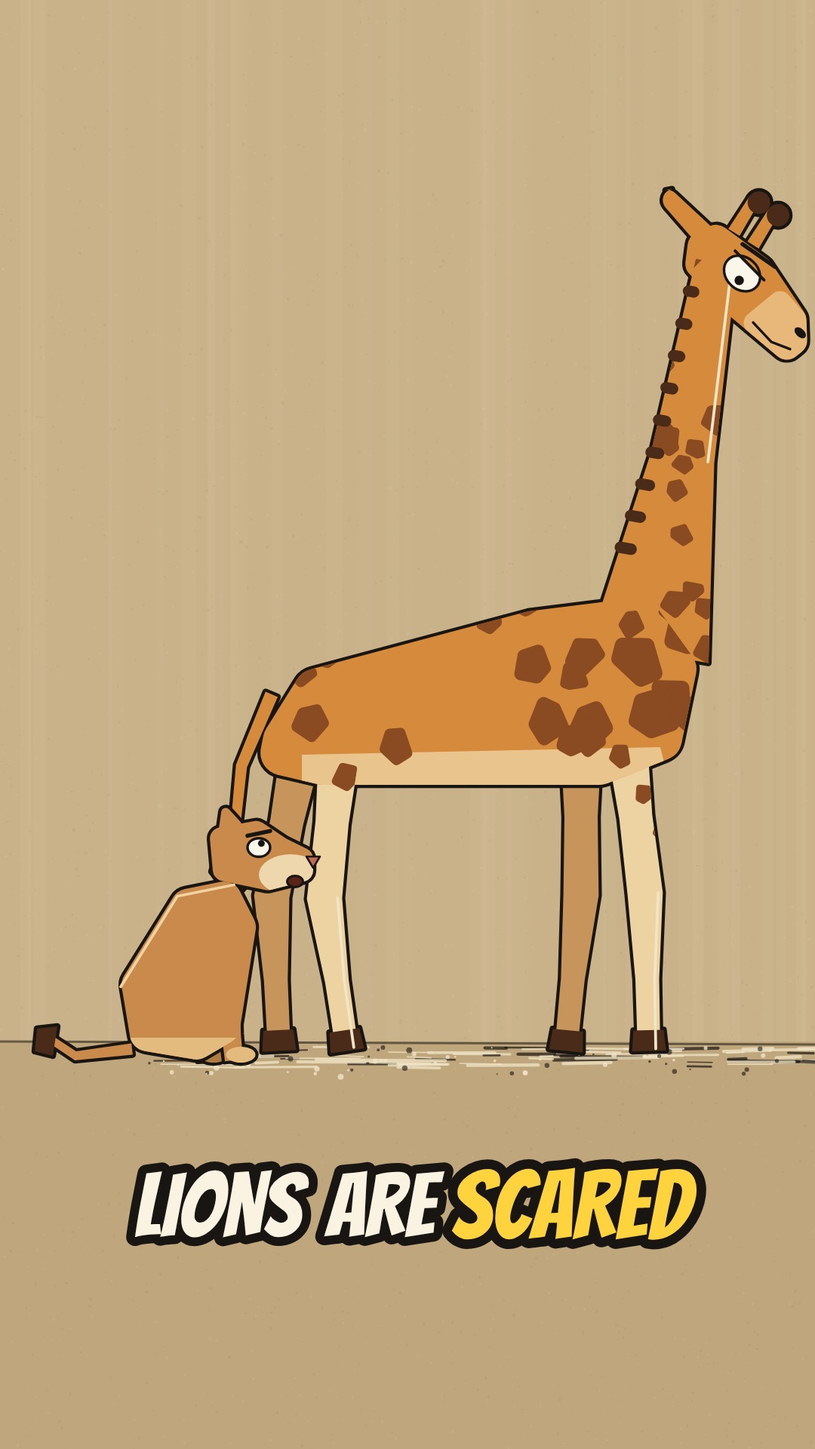
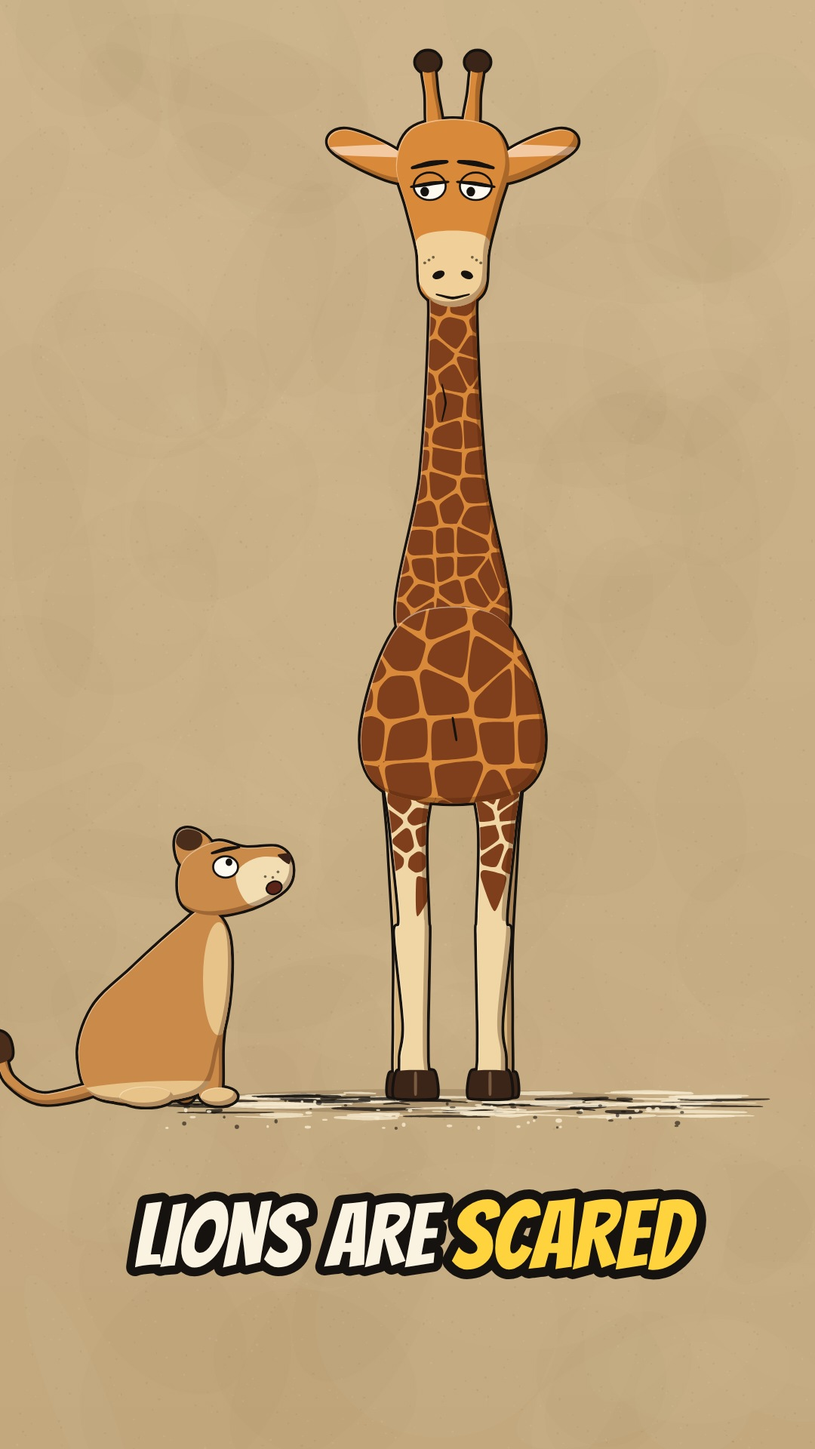
Reference-style v2: smooth spline anatomy, cel shadow + rim light, Voronoi coat, front-view giraffe; 5 new stills
Claude-Session: https://claude.ai/code/session_01W7fcZEsnoE2Lhh733xsyCF

Changed region(s): [[0.0, 0.0312, 1.0, 0.9062]]

diff --git a/roman-short/src/videos/ink/stylized2.ts b/roman-short/src/videos/ink/stylized2.ts
@@ -1,0 +1,296 @@
+// Style test v2 (after the user's Doberman reference): smooth, elongated cartoon anatomy with S-curves, one bold
+// brush outline per silhouette, flat earthy colours with a cel shadow crescent on the far side and a cream rim light
+// on the near side, tapered interior detail lines, heavy-lidded deadpan eyes, toe lines on paws/hooves, plain
+// mottled kraft paper and a dry-brush floor shadow. Five vertical stills (t = 0..4).
+export {};
+type P = [number, number];
+const LINE = "#16120f", CREAM = "#f6e8c8";
+const G_COAT = "#d9893a", G_SPOT = "#7f3f1c", G_LEG = "#efd6a4", G_HOOF = "#3b2418", G_MUZ = "#f0cf98";
+const L_COAT = "#c98a4a", L_BELLY = "#e8c389", L_MUZ = "#f2dcb2", L_DARK = "#4a2d1a";
+let seed = 1; const rnd = () => { seed = (seed * 16807) % 2147483647; return (seed - 1) / 2147483646; };
+const lerp = (a: P, b: P, t: number): P => [a[0] + (b[0] - a[0]) * t, a[1] + (b[1] - a[1]) * t];
+
+/** closed Catmull-Rom spline through the points (smooth organic outline) */
+const spline = (pts: P[], closed = true, k = 0.5) => {
+  const p = new Path2D(), n = pts.length, at = (i: number) => (closed ? pts[(i + n) % n] : pts[Math.max(0, Math.min(n - 1, i))]);
+  p.moveTo(pts[0][0], pts[0][1]);
+  for (let i = 0; i < (closed ? n : n - 1); i++) {
+    const p0 = at(i - 1), p1 = at(i), p2 = at(i + 1), p3 = at(i + 2);
+    p.bezierCurveTo(p1[0] + ((p2[0] - p0[0]) * k) / 3, p1[1] + ((p2[1] - p0[1]) * k) / 3, p2[0] - ((p3[0] - p1[0]) * k) / 3, p2[1] - ((p3[1] - p1[1]) * k) / 3, p2[0], p2[1]);
+  }
+  if (closed) p.closePath(); return p;
+};
+/** outline of a centre line with per-point widths (limbs, necks, tails), as a closed point list */
+const ribbon = (pts: P[], ws: number[]): P[] => {
+  const L: P[] = [], R: P[] = [];
+  pts.forEach((p, i) => { const a = pts[Math.max(0, i - 1)], b = pts[Math.min(pts.length - 1, i + 1)], dx = b[0] - a[0], dy = b[1] - a[1], l = Math.hypot(dx, dy) || 1, nx = -dy / l, ny = dx / l, w = ws[i] / 2;
+    L.push([p[0] + nx * w, p[1] + ny * w]); R.push([p[0] - nx * w, p[1] - ny * w]); });
+  return [...L, ...R.reverse()];
+};
+const ell = (x: number, y: number, rx: number, ry: number, r = 0) => { const p = new Path2D(); p.ellipse(x, y, rx, ry, r, 0, Math.PI * 2); return p; };
+type Part = { path: Path2D; fill: string; shade?: boolean; deco?: () => void };
+const LIGHT: P = [-0.62, -0.78];
+/** cel shadow crescent on the side away from the light + a thin cream rim on the lit side */
+const shade = (g: CanvasRenderingContext2D, path: Path2D, d: number, r: number, dark = "rgba(70,30,10,0.32)") => {
+  const big = 1e5;
+  g.save(); g.clip(path);
+  const a = new Path2D(); a.rect(-big, -big, 2 * big, 2 * big); a.addPath(path, new DOMMatrix().translate(LIGHT[0] * d, LIGHT[1] * d)); g.save(); g.clip(a, "evenodd"); g.fillStyle = dark; g.fillRect(-big, -big, 2 * big, 2 * big); g.restore();
+  const b = new Path2D(); b.rect(-big, -big, 2 * big, 2 * big); b.addPath(path, new DOMMatrix().translate(-LIGHT[0] * r, -LIGHT[1] * r)); g.clip(b, "evenodd"); g.fillStyle = "rgba(255,244,220,0.5)"; g.fillRect(-big, -big, 2 * big, 2 * big);
+  g.restore();
+};
+/** stroke all parts thick then fill on top (one merged outline), then shade each part */
+const group = (g: CanvasRenderingContext2D, parts: Part[], lw: number, d: number, after?: () => void) => {
+  g.lineJoin = "round"; g.lineCap = "round"; g.strokeStyle = LINE; g.lineWidth = lw * 2;
+  for (const p of parts) g.stroke(p.path);
+  // painter's order: each part is filled, decorated and shaded before the next covers it
+  for (const p of parts) { g.fillStyle = p.fill; g.fill(p.path); p.deco?.(); if (p.shade !== false) shade(g, p.path, d, d * 0.2); }
+  after?.();
+};
+/** brush stroke that tapers at both ends */
+const taper = (g: CanvasRenderingContext2D, pts: P[], w: number, col = LINE) => {
+  const n = pts.length, ws = pts.map((_, i) => w * Math.sin((Math.PI * (i + 0.6)) / (n + 0.2)));
+  g.fillStyle = col; g.fill(spline(ribbon(pts, ws), true, 0.3));
+};
+/** reticulated coat: rounded cells from a jittered grid (Voronoi via half-plane clipping), clipped to a part */
+const coat = (g: CanvasRenderingContext2D, clip: Path2D, x0: number, y0: number, x1: number, y1: number, cell: number, gap: number, col = G_SPOT, sd = 3) => {
+  seed = sd; const pts: P[] = [];
+  for (let y = y0 - cell; y < y1 + cell; y += cell) for (let x = x0 - cell; x < x1 + cell; x += cell) pts.push([x + rnd() * cell * 0.8, y + rnd() * cell * 0.8]);
+  g.save(); g.clip(clip); g.fillStyle = col;
+  for (const p of pts) {
+    if (p[0] < x0 - cell * 0.5 || p[0] > x1 + cell * 0.5 || p[1] < y0 - cell * 0.5 || p[1] > y1 + cell * 0.5) continue;
+    let poly: P[] = [[p[0] - cell * 2, p[1] - cell * 2], [p[0] + cell * 2, p[1] - cell * 2], [p[0] + cell * 2, p[1] + cell * 2], [p[0] - cell * 2, p[1] + cell * 2]];
+    for (const q of pts) {
+      if (q === p || Math.abs(q[0] - p[0]) > cell * 2.5 || Math.abs(q[1] - p[1]) > cell * 2.5) continue;
+      const m = lerp(p, q, 0.5), nx = q[0] - p[0], ny = q[1] - p[1], out: P[] = [];
+      const side = (v: P) => (v[0] - m[0]) * nx + (v[1] - m[1]) * ny;
+      for (let i = 0; i < poly.length; i++) { const a = poly[i], b = poly[(i + 1) % poly.length], sa = side(a), sb = side(b);
+        if (sa <= 0) out.push(a); if (sa * sb < 0) out.push(lerp(a, b, sa / (sa - sb))); }
+      poly = out;
+    }
+    const cx = poly.reduce((s, v) => s + v[0], 0) / poly.length, cy = poly.reduce((s, v) => s + v[1], 0) / poly.length;
+    const shr = poly.map((v) => { const dx = v[0] - cx, dy = v[1] - cy, l = Math.hypot(dx, dy) || 1; return [v[0] - (dx / l) * gap, v[1] - (dy / l) * gap] as P; });
+    g.fill(spline(shr, true, 0.35));
+  }
+  g.restore();
+};
+
+type Face = { lid?: number; brow?: number; look?: P; worried?: boolean };
+/** deadpan cartoon eye with a heavy upper lid; brow tilt + for a frown, - for worry */
+const eye = (g: CanvasRenderingContext2D, c: P, r: number, f: Face, skin: string, lw: number, mirror = 1) => {
+  g.save(); g.translate(c[0], c[1]); g.scale(mirror, 1);
+  const e = ell(0, 0, r, r * 0.86); g.fillStyle = "#fffaf0"; g.fill(e);
+  const lk = f.look ?? [0, 0]; g.fillStyle = LINE; g.beginPath(); g.ellipse(lk[0] * r * 0.45 * mirror, lk[1] * r * 0.42, r * 0.27, r * 0.3, 0, 0, Math.PI * 2); g.fill();
+  const lid = f.lid ?? 0.5, ly = -r + 2 * r * lid * 0.8, tilt = (f.brow ?? 0.3) * r * 0.25;
+  if (lid > 0) { g.save(); g.clip(e); g.fillStyle = skin; g.beginPath(); g.moveTo(-r * 1.3, -r * 1.3); g.lineTo(r * 1.3, -r * 1.3); g.lineTo(r * 1.3, ly + tilt); g.lineTo(-r * 1.3, ly - tilt); g.fill(); g.restore();
+    taper(g, [[-r * 1.15, ly - tilt * 1.1], [0, ly - r * 0.04], [r * 1.15, ly + tilt * 1.1]], r * 0.26); }
+  g.strokeStyle = LINE; g.lineWidth = lw * 0.75; g.stroke(e);
+  const b = f.brow ?? 0.3; taper(g, [[-r * 1.1, -r * 1.35 - b * r * 0.35], [0, -r * 1.42], [r * 1.1, -r * 1.35 + b * r * 0.35]], r * 0.34);
+  g.restore();
+};
+
+// ---------------- giraffe, front view (hook) ----------------
+const giraffeFront = (g: CanvasRenderingContext2D, cx: number, base: number, s: number, f: Face) => {
+  g.save(); g.translate(cx, base); g.scale(s, s); const lw = 3.6 / s, d = 9 / s;
+  const X = (x: number, y: number): P => [x, y];
+  // hind legs (behind, darker)
+  const hind = [-1, 1].map((k) => spline(ribbon([X(k * 0.13, -0.98), X(k * 0.14, -0.7), X(k * 0.13, -0.42), X(k * 0.135, -0.2), X(k * 0.13, -0.02)], [0.12, 0.08, 0.07, 0.06, 0.06]), true));
+  const hhoof = [-1, 1].map((k) => spline([X(k * 0.13 - 0.045, -0.06), X(k * 0.13 + 0.045, -0.06), X(k * 0.13 + 0.05, 0.005), X(k * 0.13 - 0.05, 0.005)], true, 0.2));
+  group(g, [...hind.map((p) => ({ path: p, fill: "#d8b47d" })), ...hhoof.map((p) => ({ path: p, fill: G_HOOF, shade: false }))], lw, d);
+  // chest + front legs + neck + head as one silhouette
+  const chest = spline([X(-0.26, -1.0), X(-0.2, -1.24), X(-0.1, -1.36), X(0.1, -1.36), X(0.2, -1.24), X(0.26, -1.0), X(0.2, -0.86), X(0.0, -0.82), X(-0.2, -0.86)]);
+  const legs = [-1, 1].map((k) => spline(ribbon([X(k * 0.12, -1.0), X(k * 0.125, -0.75), X(k * 0.11, -0.5), X(k * 0.115, -0.45), X(k * 0.105, -0.2), X(k * 0.11, -0.1), X(k * 0.105, -0.02)], [0.15, 0.1, 0.08, 0.095, 0.065, 0.075, 0.065]), true));
+  const hoof = [-1, 1].map((k) => spline([X(k * 0.105 - 0.05, -0.065), X(k * 0.105 + 0.05, -0.065), X(k * 0.105 + 0.058, 0.008), X(k * 0.105 - 0.058, 0.008)], true, 0.2));
+  const neck = spline([X(-0.15, -1.3), X(-0.09, -1.75), X(-0.065, -2.2), X(-0.075, -2.45), X(0.075, -2.45), X(0.065, -2.2), X(0.09, -1.75), X(0.15, -1.3)]);
+  const head = spline([X(-0.16, -2.62), X(-0.12, -2.72), X(0.0, -2.75), X(0.12, -2.72), X(0.16, -2.62), X(0.13, -2.5), X(0.1, -2.38), X(0.085, -2.26), X(0.0, -2.22), X(-0.085, -2.26), X(-0.1, -2.38), X(-0.13, -2.5)]);
+  const ears = [-1, 1].map((k) => spline([X(k * 0.13, -2.64), X(k * 0.3, -2.72), X(k * 0.34, -2.66), X(k * 0.15, -2.57)], true, 0.6));
+  const oss = [-1, 1].map((k) => spline(ribbon([X(k * 0.05, -2.72), X(k * 0.06, -2.82), X(k * 0.07, -2.9)], [0.04, 0.032, 0.03]), true));
+  const knobs = [-1, 1].map((k) => ell(k * 0.07, -2.91, 0.034, 0.03));
+  group(g, [...ears.map((p) => ({ path: p, fill: G_COAT, deco: () => { g.save(); g.clip(p); g.fillStyle = "#f2c9a0"; g.fill(ell(0, -2.66, 0.4, 0.02)); g.restore(); } })), ...oss.map((p) => ({ path: p, fill: G_COAT })), ...knobs.map((p) => ({ path: p, fill: G_HOOF, shade: false })),
+    ...legs.map((p) => ({ path: p, fill: G_LEG, deco: () => coat(g, p, -0.25, -1.0, 0.25, -0.62, 0.065, 0.01, G_SPOT, 6) })), ...hoof.map((p) => ({ path: p, fill: G_HOOF, shade: false })),
+    { path: neck, fill: G_COAT, deco: () => coat(g, neck, -0.2, -2.5, 0.2, -1.25, 0.075, 0.009, G_SPOT, 4) },
+    { path: chest, fill: G_COAT, deco: () => coat(g, chest, -0.3, -1.4, 0.3, -0.8, 0.12, 0.013, G_SPOT, 5) },
+    { path: head, fill: G_COAT, deco: () => { g.save(); g.clip(head); g.fillStyle = G_MUZ; g.fill(spline([X(-0.09, -2.42), X(0.09, -2.42), X(0.1, -2.3), X(0.0, -2.2), X(-0.1, -2.3)])); g.restore(); } }], lw, d);
+  // face details
+  eye(g, X(-0.065, -2.56), 0.045, f, G_COAT, lw, -1); eye(g, X(0.065, -2.56), 0.045, f, G_COAT, lw, 1);
+  for (const k of [-1, 1]) { g.fillStyle = LINE; g.fill(ell(k * 0.04, -2.31, 0.018, 0.011, k * 0.4)); }
+  taper(g, [X(-0.045, -2.255), X(0, -2.245), X(0.045, -2.255)], 0.008);
+  for (const k of [-1, 1]) for (let i = 0; i < 3; i++) { g.fillStyle = "rgba(22,18,15,0.6)"; g.fill(ell(k * (0.055 + i * 0.012), -2.36 + i * 0.008, 0.004, 0.004)); }
+  taper(g, [X(-0.03, -2.0), X(-0.02, -1.95), X(-0.03, -1.9)], 0.006); taper(g, [X(0.0, -1.06), X(0.01, -1.0)], 0.008);
+  // toe split lines on hooves
+  for (const k of [-1, 1]) taper(g, [X(k * 0.105, -0.06), X(k * 0.105, 0.0)], 0.01, "#7a5a40");
+  g.restore();
+};
+
+// ---------------- giraffe, side view ----------------
+type GPose = { neckAng?: number; neckLen?: number; headAng?: number; feet?: Partial<Record<"fn" | "ff" | "hn" | "hf", P>>; bends?: Partial<Record<"fn" | "ff" | "hn" | "hf", number>>; face?: Face; tilt?: number };
+const limb = (hip: P, foot: P, bend: number, w: number) => {
+  const m = lerp(hip, foot, 0.5), dx = foot[0] - hip[0], dy = foot[1] - hip[1], l = Math.hypot(dx, dy) || 1, nx = -dy / l, ny = dx / l;
+  const knee: P = [m[0] + nx * bend, m[1] + ny * bend], fet = lerp(knee, foot, 0.82);
+  return { pts: ribbon([hip, lerp(hip, knee, 0.45), lerp(hip, knee, 0.85), knee, lerp(knee, foot, 0.4), fet, foot], [w, w * 0.78, w * 0.62, w * 0.72, w * 0.5, w * 0.58, w * 0.5]), knee };
+};
+const giraffeSide = (g: CanvasRenderingContext2D, x: number, y: number, s: number, o: GPose = {}, flip = false) => {
+  g.save(); g.translate(x, y); g.scale(flip ? -s : s, s); g.rotate(o.tilt ?? 0); const lw = 3.6 / s, d = 8 / s;
+  const hips: Record<string, P> = { fn: [0.4, -0.86], ff: [0.28, -0.86], hn: [-0.42, -0.84], hf: [-0.52, -0.84] };
+  const feet: Record<string, P> = { fn: [0.44, 0], ff: [0.22, 0], hn: [-0.38, 0], hf: [-0.58, 0], ...o.feet };
+  const bends: Record<string, number> = { fn: -0.025, ff: -0.025, hn: 0.05, hf: 0.05, ...o.bends };
+  const L = Object.fromEntries(Object.keys(hips).map((k) => [k, limb(hips[k], feet[k], bends[k], 0.13)]));
+  const hoof = (k: string) => { const f = feet[k], kn = L[k].knee, a = Math.atan2(f[1] - kn[1], f[0] - kn[0]) - Math.PI / 2, c = Math.cos(a), sn = Math.sin(a), R = (p: P): P => [f[0] + p[0] * c - p[1] * sn, f[1] + p[0] * sn + p[1] * c];
+    return spline([R([-0.035, -0.055]), R([0.035, -0.055]), R([0.05, 0.005]), R([-0.045, 0.005])], true, 0.2); };
+  group(g, [...["ff", "hf"].map((k) => ({ path: spline(L[k].pts), fill: "#d4a66c" })), ...["ff", "hf"].map((k) => ({ path: hoof(k), fill: G_HOOF, shade: false }))], lw, d);
+  const body = spline([[-0.64, -0.86], [-0.6, -1.0], [-0.42, -1.07], [0.0, -1.14], [0.3, -1.24], [0.5, -1.22], [0.6, -1.06], [0.58, -0.9], [0.46, -0.78], [0.2, -0.74], [-0.1, -0.72], [-0.42, -0.74], [-0.6, -0.78]]);
+  const na = o.neckAng ?? -1.2, nl = o.neckLen ?? 1.05, nb: P = [0.45, -1.06], nt: P = [nb[0] + Math.cos(na) * nl, nb[1] + Math.sin(na) * nl];
+  const bow: P = [-Math.sin(na) * 0.04, Math.cos(na) * 0.04];
+  const neckPts = ribbon([nb, [lerp(nb, nt, 0.35)[0] + bow[0], lerp(nb, nt, 0.35)[1] + bow[1]], [lerp(nb, nt, 0.7)[0] + bow[0], lerp(nb, nt, 0.7)[1] + bow[1]], nt], [0.36, 0.2, 0.14, 0.12]);
+  const neck = spline(neckPts);
+  const ha = o.headAng ?? 0.15, c = Math.cos(ha), sn = Math.sin(ha), H = (p: P): P => [nt[0] + p[0] * c - p[1] * sn, nt[1] + p[0] * sn + p[1] * c];
+  const head = spline([[-0.09, -0.07], [0.0, -0.1], [0.12, -0.095], [0.24, -0.06], [0.33, -0.02], [0.35, 0.04], [0.31, 0.085], [0.18, 0.08], [0.05, 0.075], [-0.06, 0.06], [-0.1, 0.0]].map((p) => H(p as P)));
+  const muz = spline([[0.18, -0.07], [0.28, -0.045], [0.35, 0.02], [0.32, 0.085], [0.17, 0.08], [0.14, 0.0]].map((p) => H(p as P)));
+  const ear = spline([[-0.05, -0.06], [-0.2, -0.1], [-0.27, -0.06], [-0.07, -0.01]].map((p) => H(p as P)), true, 0.6);
+  const oss = [[-0.03, -0.085], [0.03, -0.095]].map(([ox, oy]) => spline(ribbon([H([ox, oy]), H([ox - 0.015, oy - 0.07]), H([ox - 0.025, oy - 0.12])], [0.04, 0.03, 0.03])));
+  const knobs = [[-0.03, -0.085], [0.03, -0.095]].map(([ox, oy]) => { const k = H([ox - 0.027, oy - 0.125]); return ell(k[0], k[1], 0.032, 0.028); });
+  const tail = spline(ribbon([[-0.6, -0.96], [-0.67, -0.82], [-0.7, -0.66], [-0.7, -0.55]], [0.04, 0.035, 0.03, 0.028]));
+  const tuft = spline([[-0.73, -0.6], [-0.66, -0.6], [-0.64, -0.5], [-0.68, -0.42], [-0.73, -0.47], [-0.75, -0.54]]);
+  const near = ["fn", "hn"];
+  const xs = [nb[0], nt[0]], ys = [nb[1], nt[1]];
+  group(g, [{ path: tail, fill: G_COAT }, { path: tuft, fill: G_HOOF, shade: false }, ...near.map((k) => { const lp = spline(L[k].pts); return { path: lp, fill: G_LEG, deco: () => coat(g, lp, hips[k][0] - 0.12, -0.9, hips[k][0] + 0.12, -0.6, 0.06, 0.01, G_SPOT, 13) }; }), ...near.map((k) => ({ path: hoof(k), fill: G_HOOF, shade: false })),
+    { path: neck, fill: G_COAT, deco: () => coat(g, neck, Math.min(...xs) - 0.2, Math.min(...ys) - 0.15, Math.max(...xs) + 0.2, Math.max(...ys) + 0.15, 0.07, 0.01, G_SPOT, 12) },
+    { path: body, fill: G_COAT, deco: () => { g.save(); g.clip(body); g.fillStyle = "#ebc790"; g.fill(spline([[-0.5, -0.8], [0.0, -0.84], [0.5, -0.86], [0.5, -0.6], [-0.5, -0.6]])); g.restore(); coat(g, body, -0.66, -1.26, 0.62, -0.8, 0.1, 0.014, G_SPOT, 11); } },
+    ...oss.map((p) => ({ path: p, fill: G_COAT })), ...knobs.map((p) => ({ path: p, fill: G_HOOF, shade: false })), { path: ear, fill: G_COAT },
+    { path: head, fill: G_COAT, deco: () => { coat(g, head, nt[0] - 0.15, nt[1] - 0.15, nt[0] + 0.15, nt[1] + 0.1, 0.06, 0.009, G_SPOT, 14); g.save(); g.clip(head); g.fillStyle = G_MUZ; g.fill(muz); g.restore(); } }], lw, d);
+  // mane along the back of the neck
+  const back = neckPts.slice(4).reverse();
+  for (let i = 1; i < 14; i++) { const t = i / 14, seg = t * 3, j = Math.min(2, Math.floor(seg)), a = lerp(back[j], back[j + 1], seg - j), fr = neckPts[Math.min(3, j + 1)];
+    const q = lerp(a, fr, 0.13); taper(g, [lerp(a, q, -0.4), a, q], 0.022, "#5a2f17"); }
+  const f = o.face ?? {}; eye(g, H([0.06, -0.025]), 0.05, f, G_COAT, lw);
+  const ns = H([0.3, 0.0]); g.fillStyle = LINE; g.fill(ell(ns[0], ns[1], 0.02, 0.012, ha + 0.3));
+  taper(g, [H([0.2, 0.06]), H([0.26, 0.068]), H([0.31, 0.06])], 0.009);
+  taper(g, [H([0.1, 0.02]), H([0.13, 0.04])], 0.006);
+  for (const k of ["fn", "hn"]) { const p = L[k].knee; taper(g, [[p[0] - 0.02, p[1] - 0.01], [p[0] + 0.02, p[1] + 0.005]], 0.007, "rgba(22,18,15,0.7)"); }
+  g.restore();
+};
+
+// ---------------- lioness ----------------
+type LPose = "sit" | "crouch" | "fly";
+const lioness = (g: CanvasRenderingContext2D, x: number, y: number, s: number, pose: LPose, f: Face, flip = false, tilt = 0) => {
+  g.save(); g.translate(x, y); g.scale(flip ? -s : s, s); g.rotate(tilt); const lw = 3.6 / s, d = 7 / s;
+  let body: P[], legs: P[][], paws: Path2D[], headC: P, headTilt: number, tailP: P[], haunch: Path2D | null = null, farLegs: P[][] = [];
+  if (pose === "sit") {
+    body = [[-0.32, -0.02], [-0.42, -0.2], [-0.36, -0.42], [-0.18, -0.6], [0.02, -0.78], [0.14, -0.86], [0.24, -0.76], [0.25, -0.5], [0.2, -0.25], [0.1, -0.04]];
+    legs = [ribbon([[0.16, -0.5], [0.17, -0.25], [0.16, -0.03]], [0.13, 0.09, 0.09])]; farLegs = [ribbon([[0.06, -0.5], [0.06, -0.25], [0.05, -0.03]], [0.12, 0.08, 0.08])];
+    paws = [ell(0.2, -0.03, 0.08, 0.04), ell(-0.12, -0.03, 0.12, 0.045)]; haunch = ell(-0.2, -0.22, 0.22, 0.22);
+    headC = [0.2, -0.98]; headTilt = -0.35; tailP = [[-0.36, -0.06], [-0.58, -0.02], [-0.72, -0.1], [-0.76, -0.2]];
+  } else if (pose === "crouch") {
+    body = [[-0.7, -0.14], [-0.72, -0.3], [-0.55, -0.42], [-0.1, -0.44], [0.3, -0.46], [0.5, -0.38], [0.52, -0.22], [0.42, -0.12], [-0.4, -0.1]];
+    legs = [ribbon([[0.38, -0.25], [0.5, -0.12], [0.66, -0.03]], [0.13, 0.09, 0.08]), ribbon([[-0.5, -0.25], [-0.36, -0.12], [-0.3, -0.03]], [0.15, 0.1, 0.08])];
+    farLegs = [ribbon([[0.28, -0.25], [0.4, -0.12], [0.54, -0.03]], [0.12, 0.08, 0.07]), ribbon([[-0.6, -0.25], [-0.48, -0.12], [-0.42, -0.03]], [0.13, 0.09, 0.07])];
+    paws = [ell(0.7, -0.03, 0.08, 0.035), ell(-0.26, -0.03, 0.08, 0.035)]; headC = [0.64, -0.38]; headTilt = 0.05; tailP = [[-0.68, -0.32], [-0.95, -0.26], [-1.1, -0.14], [-1.15, -0.04]];
+  } else {
+    body = [[-0.62, -0.46], [-0.6, -0.66], [-0.4, -0.74], [0.1, -0.76], [0.38, -0.8], [0.56, -0.66], [0.5, -0.48], [-0.4, -0.42]];
+    legs = [ribbon([[0.36, -0.55], [0.55, -0.62], [0.75, -0.78]], [0.13, 0.09, 0.08]), ribbon([[-0.45, -0.52], [-0.7, -0.36], [-0.88, -0.24]], [0.15, 0.1, 0.08])];
+    farLegs = [ribbon([[0.26, -0.55], [0.48, -0.48], [0.66, -0.5]], [0.12, 0.08, 0.07]), ribbon([[-0.55, -0.52], [-0.78, -0.5], [-0.95, -0.44]], [0.13, 0.09, 0.07])];
+    paws = [ell(0.78, -0.8, 0.07, 0.04, -0.6), ell(-0.92, -0.22, 0.07, 0.04, 0.5)]; headC = [0.64, -0.84]; headTilt = -0.2; tailP = [[-0.6, -0.62], [-0.85, -0.72], [-1.0, -0.92], [-0.98, -1.04]];
+  }
+  group(g, farLegs.map((p) => ({ path: spline(p), fill: "#a8743f" })), lw, d);
+  const [hx, hy] = headC, c = Math.cos(headTilt), sn = Math.sin(headTilt), Hh = (p: P): P => [hx + p[0] * c - p[1] * sn, hy + p[0] * sn + p[1] * c];
+  const head = spline([[-0.17, -0.06], [-0.1, -0.15], [0.05, -0.17], [0.16, -0.1], [0.3, -0.05], [0.33, 0.04], [0.27, 0.13], [0.1, 0.16], [-0.08, 0.13], [-0.18, 0.05]].map((p) => Hh(p as P)));
+  const ear = spline([[-0.12, -0.11], [-0.11, -0.25], [-0.02, -0.25], [0.02, -0.14]].map((p) => Hh(p as P)), true, 0.7);
+  const muz = spline([[0.08, 0.0], [0.2, -0.04], [0.33, 0.03], [0.28, 0.13], [0.1, 0.15]].map((p) => Hh(p as P)));
+  const tail = spline(ribbon(tailP, [0.05, 0.045, 0.04, 0.035]));
+  const te = tailP[tailP.length - 1], tuft = spline([[te[0] - 0.05, te[1] + 0.02], [te[0] + 0.04, te[1] + 0.0], [te[0] + 0.03, te[1] - 0.09], [te[0] - 0.03, te[1] - 0.11]]);
+  const bodyP = spline(body);
+  group(g, [{ path: tail, fill: L_COAT }, { path: tuft, fill: L_DARK, shade: false }, ...legs.map((p) => ({ path: spline(p), fill: L_COAT })), ...(haunch ? [{ path: haunch, fill: L_COAT }] : []),
+    { path: bodyP, fill: L_COAT, deco: () => { g.save(); g.clip(bodyP); g.fillStyle = L_BELLY; const by = Math.max(...body.map((p) => p[1])); g.fill(ell(0.05, by + 0.02, 0.6, 0.1)); if (pose === "sit") g.fill(ell(0.2, -0.55, 0.07, 0.25)); g.restore(); } },
+    ...paws.map((p) => ({ path: p, fill: L_BELLY })),
+    { path: ear, fill: L_COAT, deco: () => { g.save(); g.clip(ear); g.fillStyle = L_DARK; g.fill(ell(Hh([-0.06, -0.22])[0], Hh([-0.06, -0.22])[1], 0.06, 0.05)); g.restore(); } },
+    { path: head, fill: L_COAT, deco: () => { g.save(); g.clip(head); g.fillStyle = L_MUZ; g.fill(muz); g.restore(); } }], lw, d);
+  const nose = Hh([0.31, 0.01]); g.fillStyle = "#3a2218"; g.fill(spline([[nose[0] - 0.035, nose[1] - 0.02], [nose[0] + 0.02, nose[1] - 0.025], [nose[0] + 0.015, nose[1] + 0.02]], true, 0.4));
+  if (f.worried) { const m = Hh([0.22, 0.11]); g.fillStyle = "#5a2418"; g.fill(ell(m[0], m[1], 0.035, 0.028, headTilt)); g.strokeStyle = LINE; g.lineWidth = lw * 0.6; g.stroke(ell(m[0], m[1], 0.035, 0.028, headTilt)); }
+  else taper(g, [Hh([0.14, 0.11]), Hh([0.22, 0.125]), Hh([0.29, 0.11])], 0.012);
+  for (let i = 0; i < 3; i++) { const w = Hh([0.2 + i * 0.03, 0.05 + (i % 2) * 0.015]); g.fillStyle = "rgba(22,18,15,0.6)"; g.fill(ell(w[0], w[1], 0.006, 0.006)); }
+  eye(g, Hh([0.05, -0.05]), 0.055, f, L_COAT, lw);
+  // toe lines
+  for (const p of paws) { g.save(); g.clip(p); g.restore(); }
+  g.restore();
+};
+
+// ---------------- world ----------------
+const paper = (g: CanvasRenderingContext2D, hor: number) => {
+  const gr = g.createLinearGradient(0, 0, 0, 1920); gr.addColorStop(0, "#cdb48c"); gr.addColorStop(1, "#c3a87e"); g.fillStyle = gr; g.fillRect(0, 0, 1080, 1920);
+  seed = 5; for (let i = 0; i < 160; i++) { g.fillStyle = rnd() < 0.5 ? "rgba(255,246,222,0.025)" : "rgba(110,80,40,0.02)"; g.fill(ell(rnd() * 1080, rnd() * 1920, 40 + rnd() * 160, 30 + rnd() * 120, rnd() * 3)); }
+  for (let i = 0; i < 3000; i++) { g.fillStyle = rnd() < 0.5 ? "rgba(255,246,222,0.09)" : "rgba(80,55,25,0.07)"; g.fillRect(rnd() * 1080, rnd() * 1920, 1 + rnd() * 2, 1 + rnd() * 2); }
+  if (hor > 0) taper(g, [[-20, hor], [540, hor + 2], [1100, hor]], 4, "rgba(22,18,15,0.35)");
+};
+/** dry-brush floor shadow: horizontal streaks, a soft dark core and specks */
+const floor = (g: CanvasRenderingContext2D, cx: number, y: number, w: number) => {
+  seed = Math.round(cx * 3 + y);
+  g.fillStyle = "rgba(60,40,20,0.18)"; g.fill(ell(cx, y + 4, w * 0.42, 16));
+  for (let i = 0; i < 90; i++) { const x = cx - w / 2 + rnd() * w, yy = y - 8 + rnd() * 34, l = 20 + rnd() * 110, light = rnd() < 0.6;
+    taper(g, [[x, yy], [x + l * 0.5, yy + (rnd() - 0.5) * 3], [x + l, yy + (rnd() - 0.5) * 4]], 2 + rnd() * 4, light ? "rgba(245,232,205,0.8)" : "rgba(22,18,15,0.75)"); }
+  for (let i = 0; i < 70; i++) { g.fillStyle = rnd() < 0.6 ? "rgba(245,232,205,0.85)" : "rgba(22,18,15,0.6)"; g.fill(ell(cx - w / 2 + rnd() * w, y + rnd() * 40, 1.5 + rnd() * 3, 1 + rnd() * 2)); }
+};
+const tree = (g: CanvasRenderingContext2D, x: number, y: number, s: number) => {
+  const trunk = spline(ribbon([[x, y], [x + 0.06 * s, y - 0.45 * s], [x - 0.02 * s, y - 0.85 * s]], [0.11 * s, 0.07 * s, 0.06 * s]));
+  const can = spline([[x - 1.0 * s, y - 0.9 * s], [x - 0.5 * s, y - 1.1 * s], [x + 0.3 * s, y - 1.14 * s], [x + 1.0 * s, y - 0.98 * s], [x + 0.6 * s, y - 0.86 * s], [x - 0.6 * s, y - 0.84 * s]]);
+  group(g, [{ path: trunk, fill: "#7d5a3a" }, { path: can, fill: "#8d8f52" }], 2.4, 5);
+};
+const caption = (g: CanvasRenderingContext2D, words: string[], hi: number) => {
+  const size = 118; g.font = `${size}px "Bangers"`; g.textBaseline = "middle"; g.lineJoin = "round";
+  const sp = size * 0.28, ws = words.map((w) => g.measureText(w).width), tot = ws.reduce((a, b) => a + b, 0) + sp * (words.length - 1);
+  let x = 540 - tot / 2;
+  words.forEach((w, i) => { g.save(); g.translate(x + ws[i] / 2, 1640); g.textAlign = "center"; const sc = i === hi ? 1.08 : 1; g.scale(sc, sc);
+    g.lineWidth = size * 0.2; g.strokeStyle = LINE; g.strokeText(w, 0, 0); g.fillStyle = i === hi ? "#ffd33d" : "#fbf3e2"; g.fillText(w, 0, 0); g.restore(); x += ws[i] + sp; });
+};
+const burst = (g: CanvasRenderingContext2D, x: number, y: number, r: number) => { const pts: P[] = []; for (let i = 0; i < 22; i++) { const a = (i / 22) * Math.PI * 2, rr = i % 2 ? r * 0.55 : r * (0.85 + (i % 4) * 0.08); pts.push([x + Math.cos(a) * rr, y + Math.sin(a) * rr]); } group(g, [{ path: spline(pts, true, 0.1), fill: "#f2c23c" }], 3.6, 6); };
+const star = (g: CanvasRenderingContext2D, x: number, y: number, r: number) => { const pts: P[] = []; for (let i = 0; i < 10; i++) { const a = (i / 10) * Math.PI * 2 - Math.PI / 2, rr = i % 2 ? r * 0.45 : r; pts.push([x + Math.cos(a) * rr, y + Math.sin(a) * rr]); } group(g, [{ path: spline(pts, true, 0.1), fill: "#f8ecbf", shade: false }], 2.6, 0); };
+
+const SHOTS: ((g: CanvasRenderingContext2D) => void)[] = [
+  // 1. hook: a towering front-on giraffe glares down at a scared lioness
+  (g) => {
+    paper(g, 0); floor(g, 560, 1455, 700);
+    giraffeFront(g, 600, 1450, 470, { lid: 0.55, brow: 0.55, look: [-0.7, 0.8] });
+    lioness(g, 230, 1462, 300, "sit", { lid: 0, brow: -0.7, look: [0.6, -0.9], worried: true });
+    caption(g, ["LIONS", "ARE", "SCARED"], 2);
+  },
+  // 2. the splits
+  (g) => {
+    paper(g, 1250); tree(g, 900, 1252, 120);
+    const w = ell(720, 1430, 310, 52); group(g, [{ path: w, fill: "#5e93a6" }], 3.6, 5); taper(g, [[560, 1418], [640, 1414], [700, 1416]], 5, "rgba(240,240,230,0.7)");
+    floor(g, 360, 1440, 620);
+    giraffeSide(g, 330, 1440, 450, { tilt: 0.12, neckAng: 0.62, neckLen: 1.0, headAng: 1.35, feet: { fn: [0.98, 0.05], ff: [0.78, 0.05], hn: [-0.55, 0.04], hf: [-0.76, 0.04] }, bends: { fn: 0.06, ff: 0.06 }, face: { lid: 0.15, brow: -0.4, look: [-1, -0.4] } });
+    lioness(g, 120, 1462, 170, "crouch", { lid: 0.55, brow: 0.7, look: [1, 0] });
+    caption(g, ["DOES", "THE", "SPLITS"], 2);
+  },
+  // 3. lookout
+  (g) => {
+    paper(g, 1250); tree(g, 880, 1252, 85); tree(g, 990, 1252, 55);
+    floor(g, 410, 1445, 560);
+    giraffeSide(g, 400, 1440, 460, { neckAng: -1.45, neckLen: 1.22, headAng: 0.05, face: { lid: 0.5, brow: 0.3, look: [1, 0.3] } });
+    lioness(g, 915, 1262, 60, "crouch", { lid: 0.5, brow: 0.6, look: [-1, 0] }, true);
+    g.save(); g.setLineDash([16, 14]); g.strokeStyle = "#b5432d"; g.lineWidth = 5; g.beginPath(); g.moveTo(560, 330); g.lineTo(890, 1230); g.stroke(); g.restore();
+    group(g, [{ path: spline([[528, 150], [562, 150], [553, 262], [537, 262]], true, 0.2), fill: "#b5432d", shade: false }, { path: ell(545, 292, 14, 14), fill: "#b5432d", shade: false }], 3, 0);
+    caption(g, ["BEST", "LOOKOUT"], 1);
+  },
+  // 4. one kick
+  (g) => {
+    paper(g, 1400); tree(g, 960, 1402, 105);
+    floor(g, 640, 1445, 640);
+    giraffeSide(g, 660, 1440, 380, { neckAng: -1.35, headAng: 0.35, feet: { hn: [-1.02, -0.62] }, bends: { hn: -0.06 }, face: { lid: 0.6, brow: 0.8, look: [-1, 0.3] } });
+    burst(g, 300, 1140, 85);
+    lioness(g, 260, 1215, 210, "fly", { lid: 0.62, brow: -0.6, look: [0, 0], worried: true }, false, -0.9);
+    star(g, 190, 900, 18); star(g, 250, 870, 15); star(g, 305, 900, 18);
+    caption(g, ["ONE", "KICK"], 1);
+  },
+  // 5. the babies
+  (g) => {
+    paper(g, 1400); tree(g, 960, 1402, 110);
+    floor(g, 640, 1445, 860);
+    giraffeSide(g, 600, 1435, 430, { neckAng: -1.45, headAng: 0.55, face: { lid: 0.6, brow: 0.85, look: [-0.6, 0.6] } }, true);
+    giraffeSide(g, 900, 1452, 250, { neckAng: -1.2, neckLen: 0.8, headAng: 0.1, face: { lid: 0.1, brow: -0.3, look: [-0.8, 0] } }, true);
+    lioness(g, 200, 1462, 200, "crouch", { lid: 0.5, brow: 0.6, look: [1, -0.2] });
+    caption(g, ["THE", "BABIES"], 1);
+  },
+];
+(window as unknown as { INK_VIDEO: unknown }).INK_VIDEO = {
+  duration: SHOTS.length,
+  drawAt: (g: CanvasRenderingContext2D, W: number, H: number, t: number) => { g.save(); g.scale(W / 1080, H / 1920); SHOTS[Math.min(SHOTS.length - 1, Math.floor(t))](g); g.restore(); },
+};

diff --git a/roman-short/src/videos/ink/stylized_stills.ts b/roman-short/src/videos/ink/stylized_stills.ts
@@ -2,6 +2,7 @@
 // proportions, bold black outlines that merge into one silhouette, flat earthy colours, cream rim-light slivers,
 // heavy-lidded deadpan eyes, a plain kraft-paper background and dry-brush scratches on the ground.
 // Five vertical stills, one per integer t: node scripts/ink-video.mjs <this> <out> 30 1080 1920 --stills 0,1,2,3,4
+export {};
 type P = [number, number];
 const LINE = "#191512", PAPER = "#c9b28a", PAPER2 = "#bfa67c", GROUND = "#b0956a", CREAM = "#f2e4c6";
 const G_COAT = "#d68a3c", G_SPOT = "#8a4a22", G_LEG = "#ecd3a1", G_DARK = "#4a2a18";
